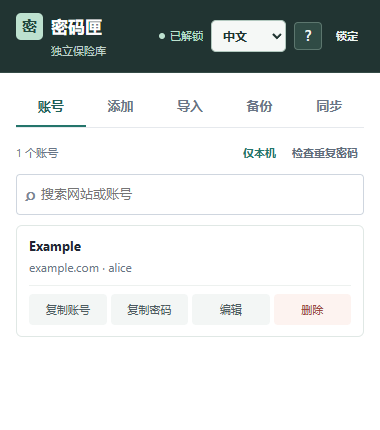
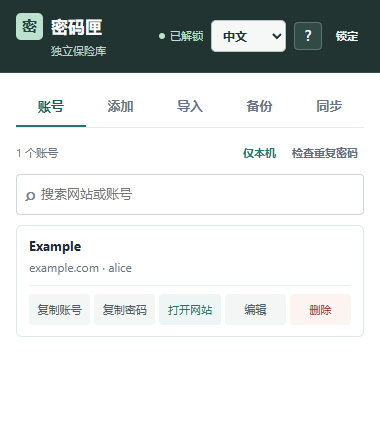
Refresh README screenshots and preview layout

diff --git a/README.md b/README.md
@@ -18,7 +18,7 @@ Password Vault is a local-first, open-source password manager with a browser ext
 
 | 桌面扩展 | 网页保险库 |
 | :---: | :---: |
-| ![密码匣桌面扩展账号列表](docs/screenshots/extension-popup.png) | ![密码匣网页保险库](docs/screenshots/web-vault.png) |
+| <img src="docs/screenshots/extension-popup.png" alt="密码匣桌面扩展账号列表" width="360"> | <img src="docs/screenshots/web-vault.png" alt="密码匣网页保险库" width="360"> |
 
 [查看手机账号页](docs/screenshots/mobile-vault.png) · [查看手机解锁页](docs/screenshots/mobile-login.png)
 
